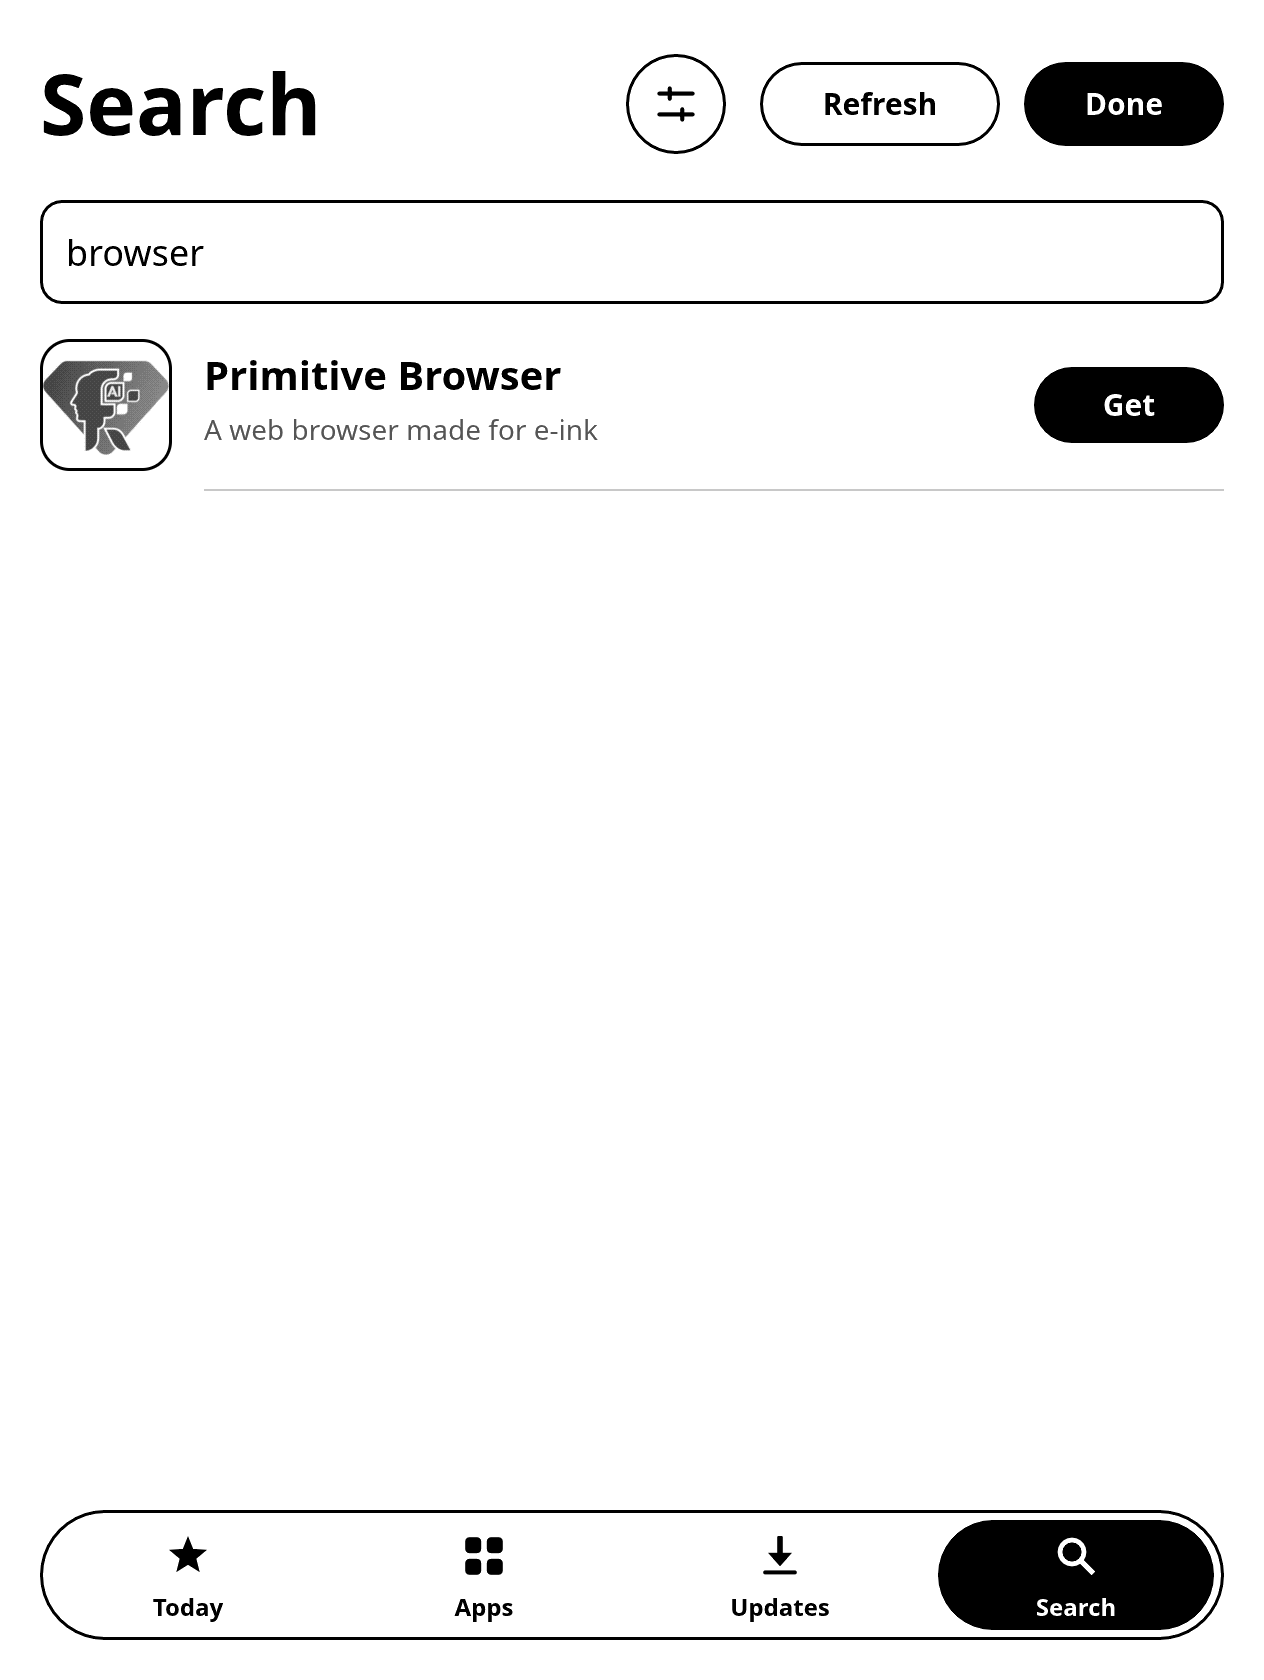
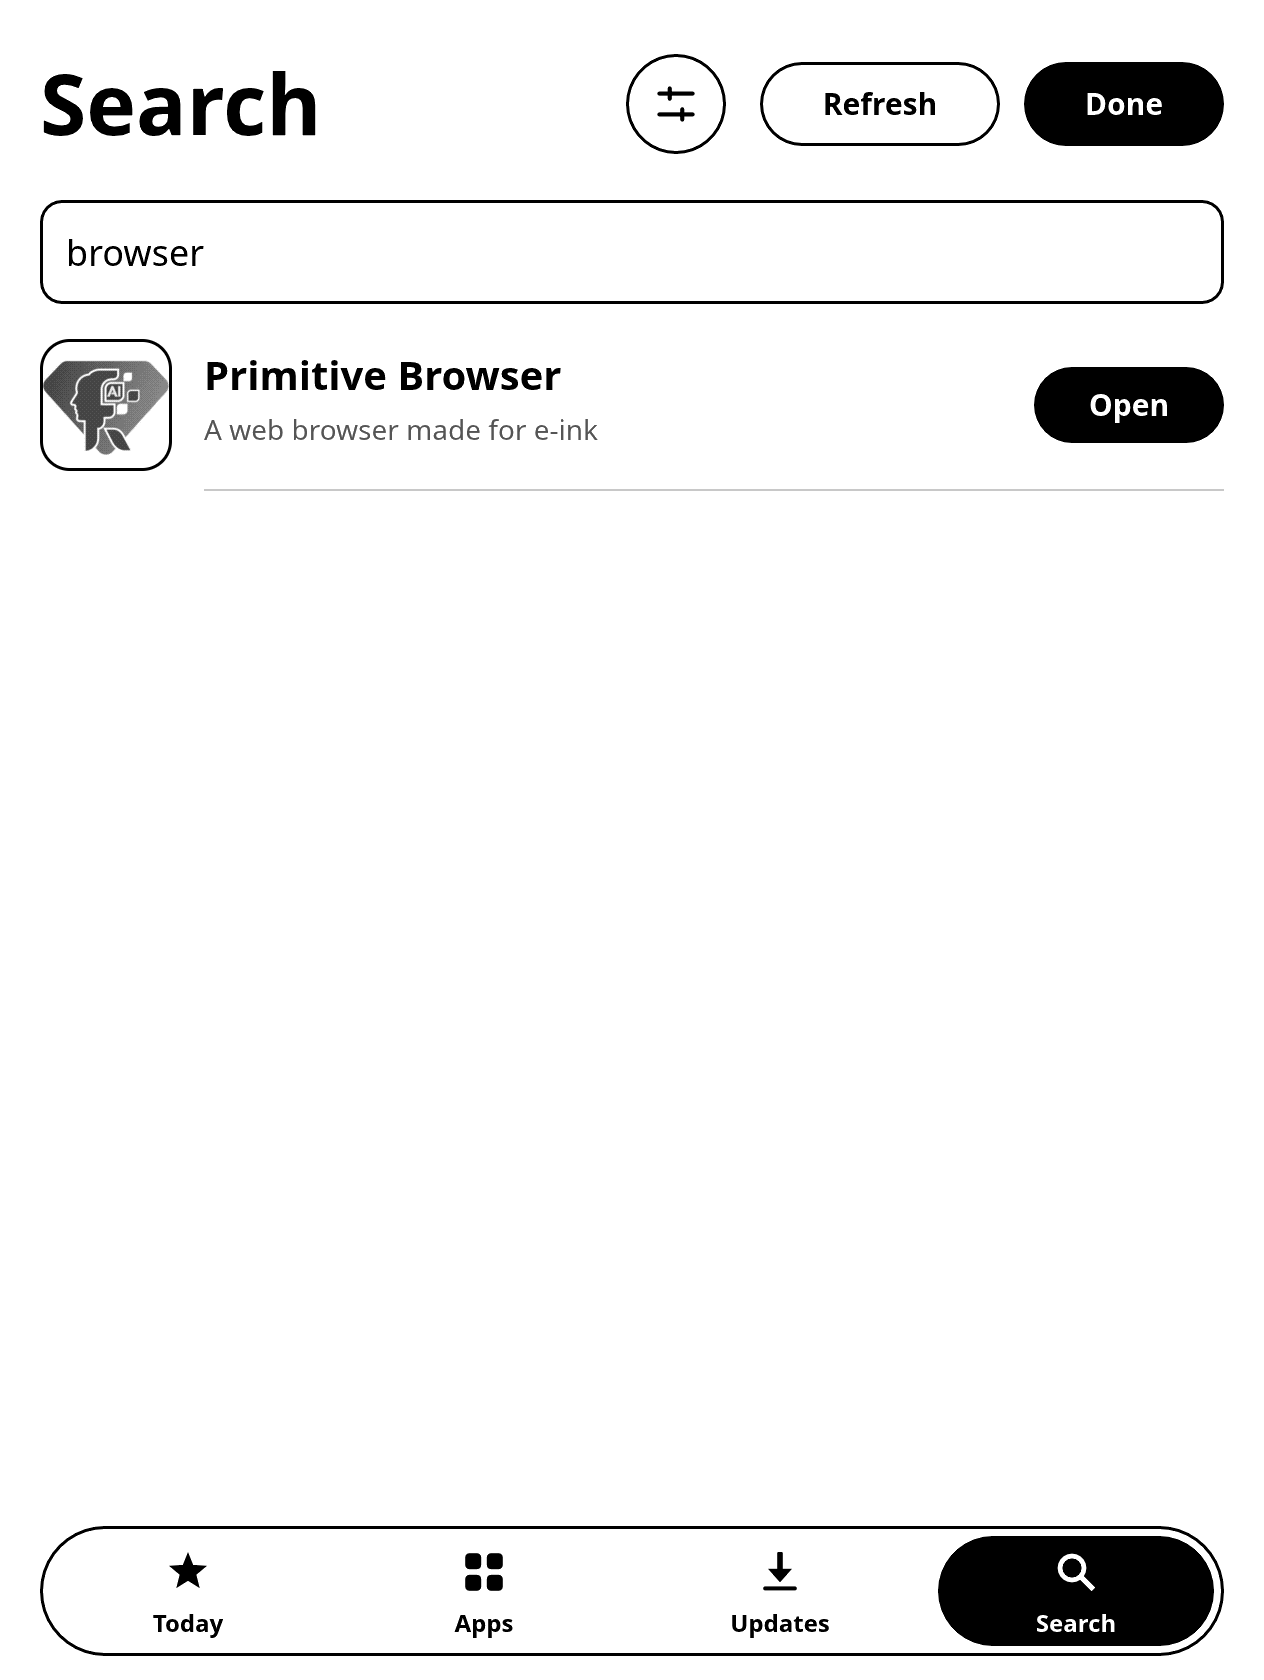
Document Store scrolling and the catalog download count contract

Changed region(s): [[0.0309, 0.8976, 0.9565, 0.9905], [0.8639, 0.2167, 0.9256, 0.2476], [0.9565, 0.9286, 0.9873, 0.9595]]

diff --git a/docs/store-architecture.md b/docs/store-architecture.md
@@ -36,7 +36,7 @@ configuration files to use it); simple for everyone, in the spirit of Apple's ap
 or Android (productivity, games, everyday tools); and it works with Primitive Launcher in front, the Kindle's own
 interface stopped. Apps that need the Kindle's own interface (Illusion and other HTML booklets) do not qualify.
 
-Out of scope: accounts, payments, ratings, reviews, analytics, push notifications, non-Kindle devices, Kindle Fire
+Out of scope: accounts, payments, ratings, reviews, device analytics, push notifications, non-Kindle devices, Kindle Fire
 tablets, apps that need a different jailbreak than the one installed.
 
 ## 3. System overview
@@ -100,7 +100,7 @@ format breaks).
 
 | File | Content | Size target |
 |---|---|---|
-| `index.json` | Every app's card includes its name, categories, latest version, and optional `revision`. The index also lists `categories` and `generated_at`. | < 100 KB |
+| `index.json` | App cards, categories, generation time, and optional GitHub package download totals. | < 100 KB |
 | `collections.json` | The Today tab's collections. | < 10 KB |
 | `apps/<id>.json` | The full listing: description, screenshots, What's New, every version with its assets, requirements, What this app changes. | < 50 KB each |
 | `icons/<id>.png` | 256 × 256 grayscale PNG. | < 20 KB |
@@ -110,8 +110,14 @@ Store checks the index and collections on refresh. A card's revision is the SHA-
 and up to two screenshots, in that order, with an eight-byte big-endian length before each file. A complete cache
 matching that revision needs no listing or image downloads. Up to four workers refresh changed or incomplete entries in
 parallel. A missing image can be retried on the next refresh while the listing stays available. Store keeps the catalog
-available offline, draws the first page from local metadata, and decodes current and nearby page icons in the
+available offline, draws the first screen from local metadata, and decodes icons for visible and nearby rows in the
 background. It decodes screenshots when a product page opens.
+
+The optional `downloads` object has an `as_of` report timestamp and a `by_app` map keyed by app ID.
+Store reads the totals from the saved index and shows them offline. The catalog's daily report
+aggregates GitHub release ZIP downloads, including Store downloads, direct downloads, updates, repeat downloads,
+and automated checks. An app with no reported total displays **Unavailable**.
+[Catalog workflow and reports](https://github.com/DoanNguyenTrong/kindle-primitive-catalog/actions/workflows/catalog.yml)
 
 ### 4.4 The app listing: `apps/<id>/app.json`
 
@@ -213,6 +219,9 @@ The store follows the `primitive-ui` skill. It opens from a **Store** tile on th
    installed apps with their version and **Remove**.
 4. **Search**: a field with the shared keyboard; results as app rows, matched on name, subtitle, developer and category.
 
+Swipe vertically to move through long lists. The title and tabs stay in place, and Back from a product page restores
+the list position.
+
 Every tab has a **Refresh** button at the top that starts a background catalog check. During a refresh, **Done**
 requests cancellation and returns to Launcher once Store releases its storage write lease. Swiping down from the top
 opens quick settings. Store's gear and the **Store** page in Launcher Settings share the daily update preference.
@@ -220,8 +229,9 @@ opens quick settings. Store's gear and the **Store** page in Launcher Settings s
 **App row**: icon (rounded square), name, subtitle (gray), and an action capsule at the right: **Get**, **Update**,
 **Open**, or **Link** for `link` entries.
 
-**App page** (the product page): icon, name, subtitle, developer; the action capsule; an information strip (version,
-size, category, licence); screenshots (two side by side, Previous and Next); description; What's New with the date and
+**App page** (the product page): icon, name, subtitle, developer, the action capsule, and an information strip with
+the version, download size, firmware, and download total. It also shows screenshots (two side by side, Previous and Next),
+a description, What's New with the date, and
 a **Version history** row; **What this app changes** (§5.3); **Information** (developer, repository, licence, size,
 architecture, firmware, tested on, requirements, hosted or upstream).
 

diff --git a/docs/implementation-plan.md b/docs/implementation-plan.md
@@ -46,7 +46,7 @@ public releases and listings. Record device findings in the relevant repo's `doc
 | [F1–F13 Native apps](#f-native-apps-phase-s6) | F / one repo each | Published with desktop previews and ARMHF packages. Device gates remain. |
 | [F14–F16 Study and work](#study-and-work-release) | F / apps and catalog | Seven new apps and four updates published and verified on the Mac. Oasis 3 release checks remain open. |
 | [G1–G3 Launcher features](#g-launcher-features) | G / launcher | Wi-Fi file transfer passes host loopback checks. G1 and G3 depend on device findings. |
-| [G4–G8 Launcher settings](#g4-battery) | G / Launcher, Store, and Tools | Launcher 0.5.3 and Store 0.1.5 are local candidates. Display includes wallpaper choices for Home, Sleep, and Startup. Oasis 3 checks remain open. |
+| [G4–G8 Launcher settings](#g4-battery) | G / Launcher, Store, and Tools | Launcher 0.5.3 and Store 0.1.6 are local candidates. Display includes wallpaper choices for Home, Sleep, and Startup. Oasis 3 checks remain open. |
 | [H1–H5 Hardening](#h-hardening-phase-s7) | H / all | Host coverage for install recovery, reviewed hooks, signed catalog and package verification, and package safety. Device and publication gates remain open. |
 
 Open release verification starts with the [study and work device checks](#study-and-work-release), using the installed
@@ -212,6 +212,7 @@ Crate `kl-store` in shared Tools, used by Store and Primitive Launcher.
       Keep the saved catalog available offline (Mac).
 - [x] Store 0.1.4 opens from the cached first page, paginates lists, and preloads nearby artwork. Refresh checks listings
       concurrently and reuses unchanged revisions. **Done** can interrupt a refresh and exit. (Mac, Published)
+- [x] Store 0.1.6 opens from the cached catalog and preloads icons around the visible list rows while scrolling. (Mac)
 - [x] The Store reads the device architecture, firmware and free space. The shared Oasis 3 build reports the
       `KindleOasis3` profile name. Additional device profiles need hardware evidence.
 - [x] Resolver: newest version for the architecture and firmware; `requires` with `>=`; withdrawn versions skipped (Mac).
@@ -236,9 +237,12 @@ Following the `primitive-ui` skill; reviewed as desktop screenshots before any d
 - [x] Floating tab bar for Today, Apps, Updates, and Search. Refresh is at the top right (Mac).
 - [x] Collections on Today, category selection in Apps, and install, update and Open actions on rows (Mac).
 - [x] Product page with app details, capabilities, screenshots, release notes, version history, and information (Mac).
+- [x] Show the cached GitHub package download total on each product page when the catalog provides it. (Mac)
 - [x] Install sheet, changes and requirement review, confirmation, and download and install progress (Mac).
 - [x] Update all, per-app updates, and removal confirmation (Mac).
 - [x] Search with the shared keyboard and app-row results (Mac).
+- [x] Scroll long lists vertically with the navigation tabs fixed at the bottom. Returning from a product page restores
+      its list position. [Desktop previews](store-screens/README.md) (Mac)
 - [x] Launcher Settings › Store and the Store gear share the daily check preference and provide cache clearing (Mac).
 - [x] Dark mode and upside-down renders captured in [`docs/store-screens/`](store-screens/README.md) (Mac).
 
@@ -250,6 +254,10 @@ Following the `primitive-ui` skill; reviewed as desktop screenshots before any d
       Launcher through **Done** during refresh. The owner confirmed startup was faster. See `build/store-performance/`
       in the local workspace for the run logs.
 - [ ] Complete a Browser install, open, return, update, and removal sequence on the Oasis 3.
+- [ ] Verify Store list scrolling, fixed tabs, and Back on the Oasis 3 in light and dark mode. Check a long Search
+      result list with the keyboard open and after dismissing it.
+- [ ] Check download totals after refreshing Store, including a first-party app while offline and a link listing
+      that shows Unavailable.
 - [ ] A package for the wrong architecture is refused with the reason.
 - [ ] Power off during an install; the next start finishes or undoes it.
 - [ ] USB drive mode while the store is idle on the Kindle. The Store and supervisor pass idle, write, cleanup, and

diff --git a/docs/store-screens/README.md b/docs/store-screens/README.md
@@ -1,20 +1,23 @@
 # Store screens for review
 
-Desktop renders of Store for PrimitiveOS at the Kindle Oasis 3 size of 1264 × 1680. The preview uses the local catalog and
-its draft listings. The Updates and Required apps screens use demonstration state.
+Desktop renders of Store for PrimitiveOS at the Kindle Oasis 3 size of 1264 × 1680. The previews use local catalog
+data and sample install states. The scrolling captures use the shared renderer pinned by Store 0.1.6.
 
 | File | Screen |
 |---|---|
 | [Today](store-today.png) | Featured app and collections |
 | [Apps](store-apps.png) | Browse the app catalog |
+| [Apps after scrolling](store-apps-scrolled.png) | More app rows with the tabs in place |
 | [Updates](store-updates.png) | Installed apps and available updates |
+| [Updates after scrolling](store-updates-scrolled.png) | Installed apps further down the list |
 | [Update all](store-update-all.png) | Batch update confirmation |
-| [Product page](store-app.png) | Primitive Browser with screenshots |
+| [Product page](store-app.png) | 2048 with its download total |
 | [Installed product](store-open-installed.png) | Primitive Browser with the Open action |
 | [Product details](store-app-scrolled.png) | About, history, and information |
 | [Link listing](store-link.png) | KOReader instructions |
 | [Search](store-search.png) | Filtered app results |
 | [Search keyboard](store-search-keyboard.png) | The active query editor |
+| [Search after scrolling](store-search-keyboard-scrolled.png) | Search results above the fixed keyboard |
 | [Install sheet](store-install-sheet.png) | App details and confirmation |
 | [Required apps](store-required-apps.png) | Prerequisites awaiting confirmation |
 | [Install progress](store-install-progress.png) | Package download progress |
@@ -23,5 +26,5 @@ its draft listings. The Updates and Required apps screens use demonstration stat
 | [Settings](store-settings.png) | Daily checks and cache options |
 | [Launcher Settings › Store](settings-store.png) | The shared Store preference and cache controls |
 
-Run `sh scripts/simulate.sh build/simulation` from the umbrella checkout to regenerate the previews. See the
+Run `sh scripts/simulate.sh build/simulation` from the umbrella checkout for the desktop simulation. See the
 [local verification guide](../local-verification.md) for the full package and review workflow.

diff --git a/.agents/skills/primitive-ui/SKILL.md b/.agents/skills/primitive-ui/SKILL.md
@@ -137,8 +137,9 @@ Use the shared crates first. Copy from the launcher when a component is not shar
   labels under them (Airplane, Auto-rotate, Dark mode, Animation, SSH, Settings, Power); Brightness and Warmth levels
   with − and +; a System section (CPU, memory, storage) with an icon, a bar and the value; a handle with "Swipe up to
   close". On = black circle with a white glyph; off = outlined circle with a black glyph.
-- **Lists** (Wi-Fi networks, extensions, store apps): rows of 104–120 px in a card, with Previous and Next in the footer
-  when they do not fit. A lock glyph marks a secured network; a chevron marks a row that opens something.
+- **Lists.** Store app rows scroll vertically with fixed tabs and artwork preloaded around the visible rows. Settings
+  and Wi-Fi also scroll vertically. Extensions use Previous and Next when their rows do not fit. A lock glyph marks
+  a secured network. A chevron marks a row that opens something.
 - **Keyboard**: always `primitive-keyboard` (layers, keys, `style`, `look(def, pressed)`). Never a custom keyboard.
 - **Icons**: SVG paths on a 24-unit grid (`primitive_quick::Icon { stroke, fill }`), strokes 2 units wide. App icons are
   PNGs, square, shown as rounded squares; a drawn icon is a black glyph on a white tile with a 4 px border.

diff --git a/README.md b/README.md
@@ -85,9 +85,9 @@ The tables cover every first-party app in Store. App names link to GitHub reposi
 the releases currently listed in Store.
 [Live Store catalog](https://doannguyentrong.github.io/kindle-primitive-catalog/v1/index.json)
 
-The catalog's daily download report totals GitHub release ZIP downloads for each first-party app. It includes
-downloads through Store, manual downloads, and automated checks. Each run saves Markdown, CSV, and JSON.
-[Download reports](https://github.com/DoanNguyenTrong/kindle-primitive-catalog/actions/workflows/download-counts.yml)
+The catalog's daily report totals GitHub release ZIP downloads for each first-party app. Downloads through Store,
+manual downloads, and automated checks all contribute. Store 0.1.6 shows the total on each app page when available.
+The Catalog workflow saves reports in Markdown, CSV, and JSON. [Download reports](https://github.com/DoanNguyenTrong/kindle-primitive-catalog/actions/workflows/catalog.yml)
 
 ### System
 
